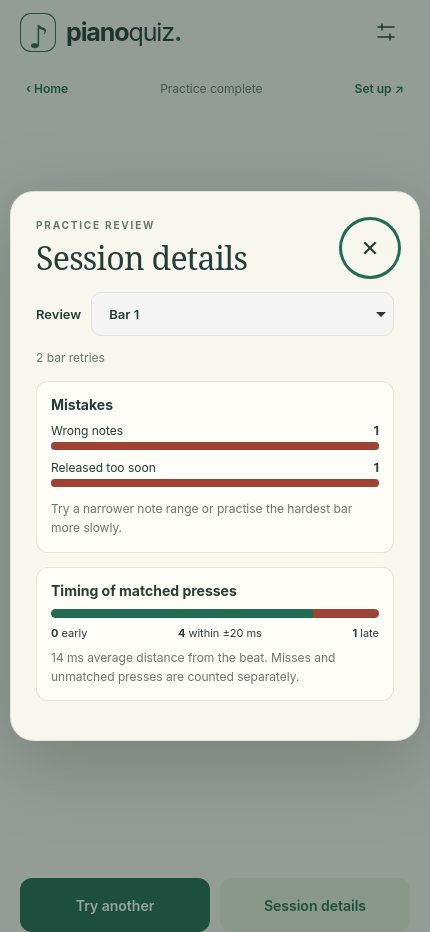
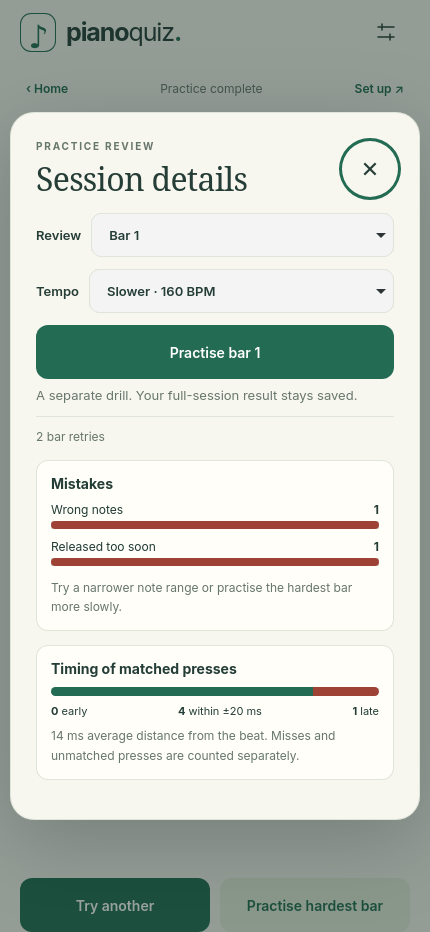
test: verify practice review tools

diff --git a/docs/VERIFICATION.md b/docs/VERIFICATION.md
@@ -1,72 +1,58 @@
 # Verification
 
-Session-report release checked on 2026-11-11 (Europe/Warsaw).
+Bar drills, session history and MIDI timing calibration checked on 2026-11-11
+(Europe/Warsaw).
 
 - Play: **https://piano-quiz.pages.dev/**
-- Release: `169798f621e9a2`
-- Production deployment: `2850a9c7-7d9e-4a0e-85cb-4d78621ee23e`
-- Immutable URL: https://2850a9c7.piano-quiz.pages.dev/
+- Release: `832bfaeaa7834d`
+- Production deployment: `165fd5a3-a924-4c69-b1b0-4d431f052747`
+- Immutable URL: https://165fd5a3.piano-quiz.pages.dev/
 - Repository: https://github.com/Listwas/piano-quiz
 
 ## Current release
 
-**96 unit tests and 72 browser scenarios passed.** The browser checks ran on
-production except for the isolated update suite. Reports below identify the
-build and test time. No uncaught page errors were recorded.
+**100 unit tests and 33 browser scenarios passed.** Browser checks used the
+published build except the isolated worker update suite. No uncaught page
+errors were recorded. The new feature scenarios extend actual graded exercises.
 
 | Check | Chromium | Firefox | WebKit |
 | --- | --- | --- | --- |
-| Practice and reports | [16 passed](live-training-chromium.json) | [16 passed](live-training-firefox.json) | [16 passed](live-training-webkit.json) |
+| Drill, history, layout and calibration scenarios | [3 passed](live-training-focused-chromium.json) | [3 passed](live-training-focused-firefox.json) | [3 passed](live-training-focused-webkit.json) |
 | Quiz, themes, storage and offline launch | [20 passed](live-chromium.json) | — | — |
 | Explicit service-worker updates | [4 passed](update-chromium.json) | — | — |
 
-[Unit report](unit.json). A dash means that suite was not rerun for this build.
-See the [previous audit](https://github.com/Listwas/piano-quiz/blob/aaa9085c5d620f054c4ba22a30de79f801fd0213/docs/VERIFICATION.md)
-for the fullscreen, wake-lock and broader viewport checks.
+[Unit report](unit.json). Dashes indicate suites not rerun in that engine for
+this build. The [earlier full session-report audit](https://github.com/Listwas/piano-quiz/blob/c530c94b8f388f3566417bb9249c7560b9490d03/docs/VERIFICATION.md)
+records broader practice coverage.
 
-## Session-report checks
+## Feature checks
 
-- The sight-reading fixture completes two bars with two retries on the first
-  bar (wrong pitch and short hold). The visible report shows **1/2 first-try
-  bars** and **2 bar retries**, even though the final replay was correct.
-  Bar details show the two distinct mistakes and matched-press timing.
-- A separate replay misses a note in the second bar. Its miss stays in the
-  report after correct replay, and the first bar keeps its clean result.
-- Tests cover earlier mistakes across pauses, time excluding pauses and
-  start/resume count-ins, signed timing distribution, and loading older
-  results without inventing details. Multiple presses in one rhythm rest are
-  reported as one violated rest, including a brief unwanted tap.
-- The eight-bar rhythm fixture deliberately plays no notes. All misses appear
-  on the chart, and timing correctly reports no matched presses. The last bar
-  and bottom actions stay tappable in compact portrait/landscape and tablet
-  sizes. A completed sight-reading report is also checked through rotations
-  with simulated safe areas.
-- The latest detailed report is available from Home after reloading. A bar can
-  be selected directly from the chart or inside the report dialog. The results
-  screen itself stays fixed, with scrolling available inside the dialog.
+- The hardest-bar action selects the bar with the most retries. A user can
+  choose another bar, play at the original tempo or start about 20% slower,
+  and return to the report. The replay preserves the original pitch/octave,
+  written spelling, durations and rests. Tests cover MIDI sight-reading,
+  touch Rhythm, reloading a saved report, and compact/rotated layouts.
+- Replaying a bar does not replace the complete-session report, change saved
+  tempo, or create a history entry. The latest 60 full sessions are stored on
+  the device. History compares matching settings only; BPM, note ranges and
+  timing correction changes are checked separately. Old reports remain usable.
+- Calibration follows four count-in clicks with twelve measured beats. It
+  uses one onset per beat, rejects sparse, noisy or out-of-range runs, and
+  never saves the suggestion until the user applies it. The browser fixture
+  verifies a known +42 ms offset, preserved setup fields, and a MIDI disconnect.
 
-Actual browser screenshots: [Sight-reading overview](images/sight-report-chromium.png),
-[bar details](images/sight-report-details-chromium.png),
-[Rhythm overview](images/rhythm-results-chromium.png).
+Captures: [bar drill](images/bar-drill-chromium.png),
+[history](images/session-history-chromium.png),
+[calibration](images/midi-calibration-chromium.png).
+History comparison includes deliberate saved fixture data. Calibration uses a
+controlled audio clock and simulated MIDI, not a physical latency measurement.
+Deterministic WebKit exercises use the visual clock on this host.
 
 ## Release integrity
 
-All **41 served runtime files** matched `dist/` byte for byte. Source files
-matched the built runtime and reproduced the release hash. Home returned HTTP
-200; CSP and same-origin MIDI, wake-lock and fullscreen policies were checked.
-See [asset verification](live-assets.json). The 42-file release ZIP was reopened
-and checked for exact members, CRC and bytes; [release.json](release.json)
-records its size and SHA-256. Chromium verified an offline launch and explicit
-service-worker updates that preserve unfinished practice.
+All 43 served runtime files matched the build and source. Home returned HTTP
+200; [asset verification](live-assets.json) records byte hashes and response
+policies. The 44-file ZIP was reopened and checked for exact members, CRC and
+bytes. [release.json](release.json) records size, SHA-256 and deployment ID.
 
-## Reproduce and limits
-
-Run `npm run build`, `npm test`, then `npm run dev`. Run `npm run test:training`
-with `BROWSER=chromium`, `firefox` or `webkit`. Set
-`PIANO_URL=https://piano-quiz.pages.dev/` to test production. See
-[development commands](DEVELOPMENT.md#commands) for other suites.
-
-MIDI and safe areas are simulated. Deterministic WebKit exercises use the app's
-visual clock because the headless host audio clock can stall; the native
-metronome scenario is separate. Tests do not measure a physical device's
-MIDI/audio latency.
+See [development commands](DEVELOPMENT.md#commands) to reproduce the tests.

diff --git a/DEPLOY.md b/DEPLOY.md
@@ -6,9 +6,9 @@ Project: `piano-quiz`, production branch `main`, account
 `3bbe51d8973c406839b993e52753a08c`. This is an independent static Pages app;
 the original `random-piano` app is unchanged.
 
-Release `169798f621e9a2` was published as production deployment
-`2850a9c7-7d9e-4a0e-85cb-4d78621ee23e`:
-https://2850a9c7.piano-quiz.pages.dev/
+Release `832bfaeaa7834d` was published as production deployment
+`165fd5a3-a924-4c69-b1b0-4d431f052747`:
+https://165fd5a3.piano-quiz.pages.dev/
 
 ## Publish an update
 
